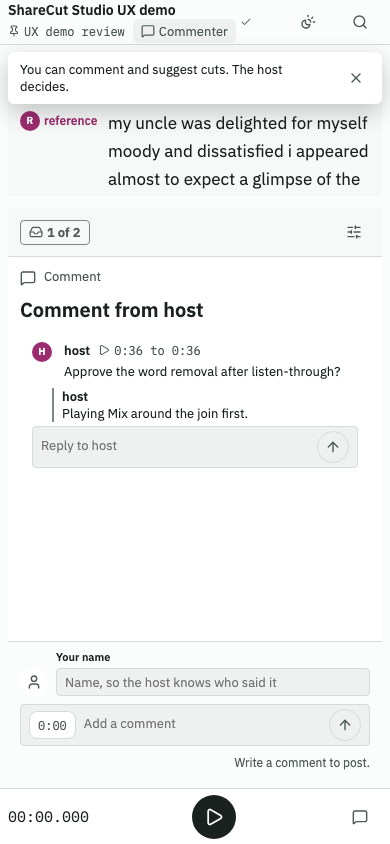
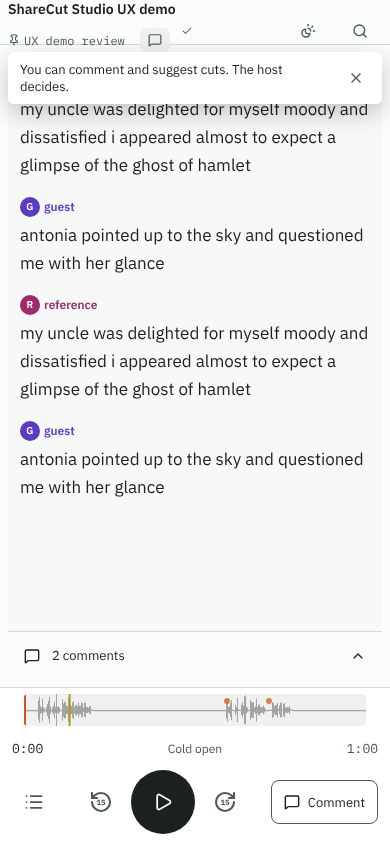
test(web): capture the phone guest demo image in the Listen layout
The guest phone capture checks the Listen dock total, its Comment button and
the transcript instead of the bar total, and the regenerated image shows the
Listen layout with no field before Comment.

Claude-Session: https://claude.ai/code/session_01HqQKcaZ37MLdaGBewHgzLE

diff --git a/gui/web/e2e/ux-demo-screenshots.spec.ts b/gui/web/e2e/ux-demo-screenshots.spec.ts
@@ -43,6 +43,20 @@ async function expectLoadedDemo(page: Page): Promise<void> {
   ).toBeEnabled();
 }
 
+/** The phone Commenter's Listen layout: the transcript, the dock and its Comment button, no field. */
+async function expectLoadedListenDemo(page: Page): Promise<void> {
+  await expect(page.getByRole("heading", { level: 1 })).toHaveText(
+    "ShareCut Studio UX demo",
+  );
+  await expect(page.locator(".sys-listen-dock-total")).toContainText("1:00");
+  await expect(
+    page.getByRole("button", { name: "Play", exact: true }),
+  ).toBeEnabled();
+  await expect(page.getByRole("button", { name: /^Comment at/ })).toBeVisible();
+  await expect(page.locator(".sys-script-word").first()).toBeVisible();
+  await expect(page.locator(".rv-compose")).toHaveCount(0);
+}
+
 async function expectLoadedTimeline(page: Page): Promise<void> {
   await expect(
     page.locator('.lane-row[data-track-id="reference"]'),
@@ -123,7 +137,7 @@ test.describe("UX demo screenshots", () => {
       timeout: 30_000,
     });
     await expect(phone.locator(".sys-role")).toBeVisible();
-    await expectLoadedDemo(phone);
+    await expectLoadedListenDemo(phone);
     await phone.screenshot({
       path: path.join(screensDir, "guest-sharecut-phone.png"),
       fullPage: true,
